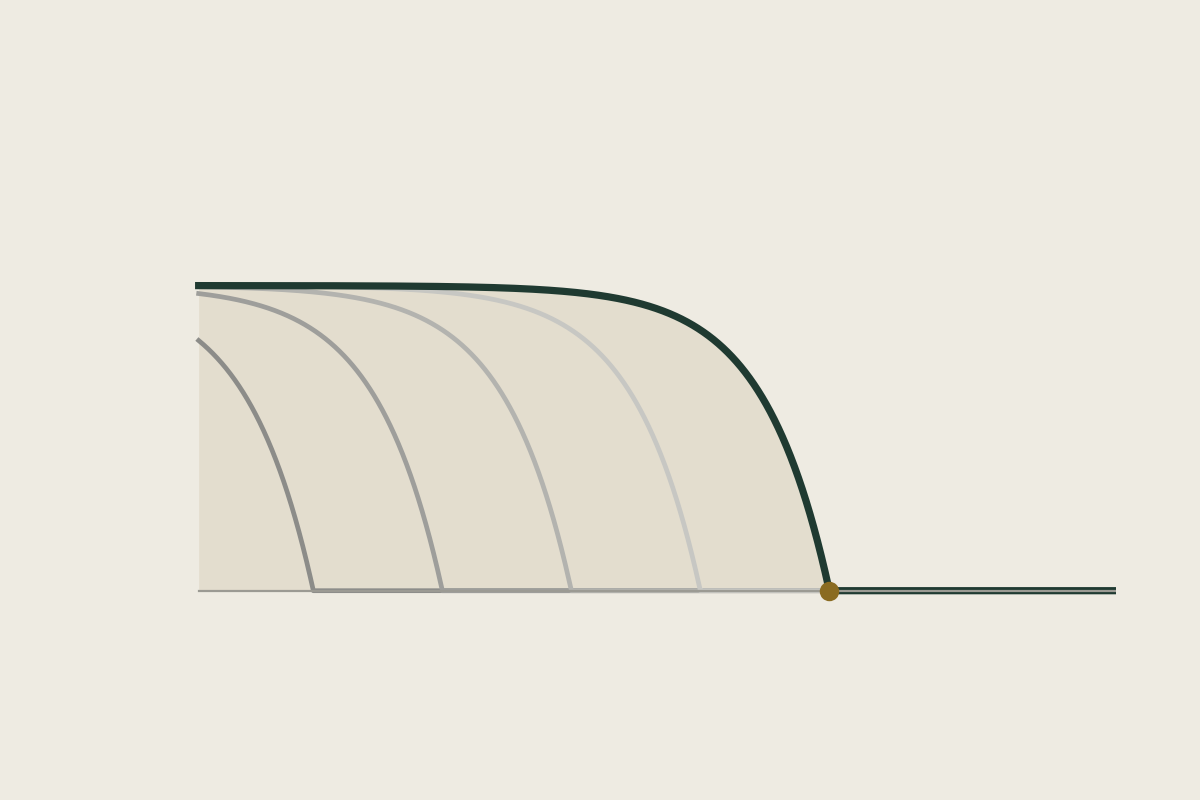
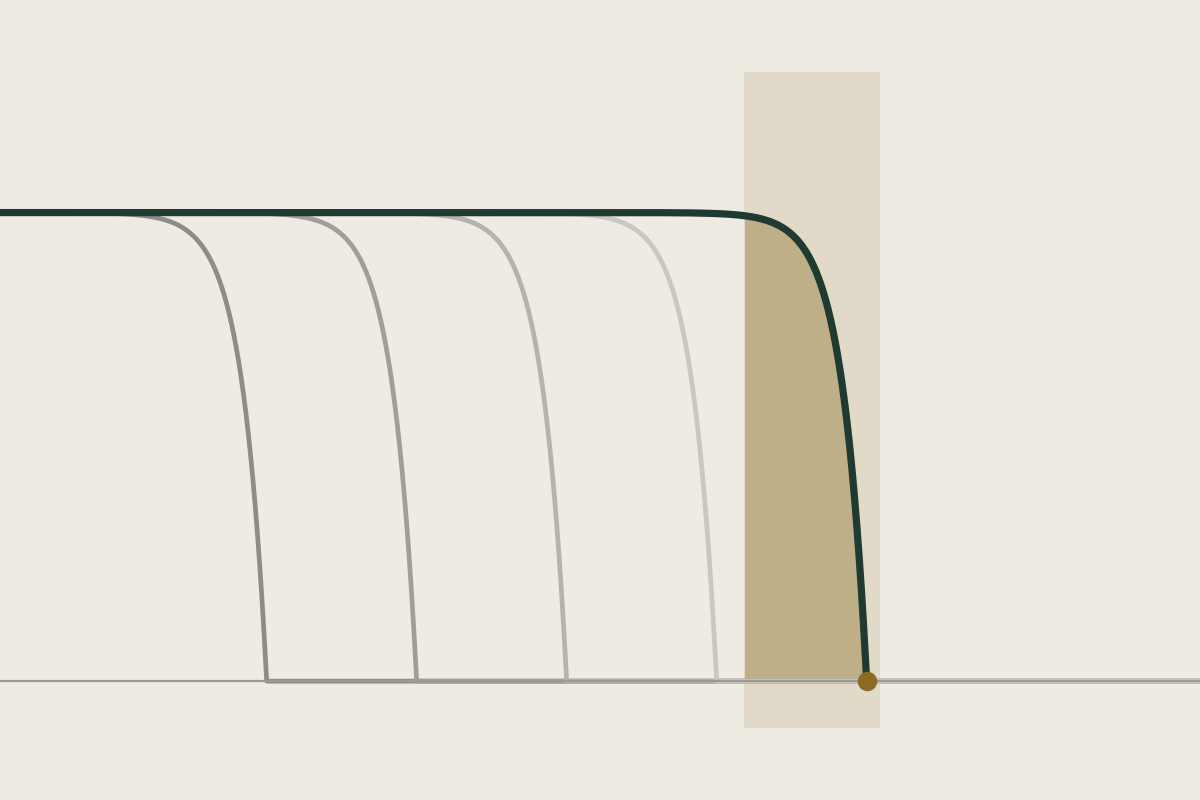
Teaching: steeper front with highlighted boundary layer; bump image cache tag

diff --git a/teaching.html b/teaching.html
@@ -1,1 +1,1 @@
-<!doctype html><html lang="en"><head><meta charset="utf-8"><meta name="viewport" content="width=device-width, initial-scale=1"><meta name="description" content="Zack Kilpatrick studies the mathematics of decisions, collective behavior, and memory at the University of Colorado Boulder."><meta name="theme-color" content="#1f3a31"><title>Teaching | Zack Kilpatrick</title><link rel="icon" href="assets/mark.svg" type="image/svg+xml"><link rel="stylesheet" href="assets/site.css?v=55"><script defer src="assets/site.js?v=23"></script></head><body class="academic"><a class="skip" href="#main">Skip to content</a><header class="site-header"><a class="brand" href="index.html"><span>Zack Kilpatrick<small>APPLIED MATHEMATICS · UNIVERSITY OF COLORADO BOULDER</small></span></a><button class="menu-button" aria-expanded="false" aria-controls="navigation">Menu</button><nav id="navigation" aria-label="Main navigation"><a href="research.html">Research</a><a href="publications.html">Publications</a><a href="group.html">Group</a><a href="teaching.html" aria-current="page">Teaching</a><a href="demos.html">Demos</a><a href="consulting.html">Consulting</a></nav></header><main id="main"><section class="page-intro wrap"><h1>Teaching</h1><p class="lede">Courses in applied mathematics, computational neuroscience, and mathematical biology. Most courses end with a project on a current research question.</p></section><section class="wrap course-grid"><article class="course"><img class="course-thumb" src="images/teaching/compneuro.png?v=2" alt="" loading="lazy" width="1200" height="800"><p class="eyebrow">APPM 4370 / 5370</p><h2>Computational Neuroscience</h2><p class="course-term">Fall 2026; previously 2024, 2023, 2021, 2020</p><p>Introduces mathematical and computational models of neurons, neural networks, and cognition. Topics include single-neuron dynamics, synaptic plasticity, recurrent network models, and attractor dynamics, with numerical simulation throughout and a final research project. I developed this course and have taught it at CU Boulder since 2020.</p></article><article class="course"><img class="course-thumb" src="images/teaching/markov.png?v=2" alt="" loading="lazy" width="1200" height="800"><p class="eyebrow">APPM 4560 / 5560</p><h2>Markov Processes</h2><p class="course-term">Fall 2026, 2025</p><p>Studies stochastic processes with the Markov property. Topics include discrete- and continuous-time Markov chains, Poisson processes, stationary distributions, and long-run behavior, with applications to models of random systems.</p></article><article class="course"><img class="course-thumb" src="images/teaching/mathbio.png?v=2" alt="" loading="lazy" width="1200" height="800"><p class="eyebrow">APPM 4390 / 5390</p><h2>Mathematical Biology</h2><p class="course-term">Spring 2026</p><p>Introduces mathematical modeling of biological systems. Topics include population dynamics, interacting species, feedback and regulation, and spatial effects, using both analytical and computational methods.</p></article><article class="course"><img class="course-thumb" src="images/teaching/pde.png?v=2" alt="" loading="lazy" width="1200" height="800"><p class="eyebrow">APPM 5470</p><h2>Partial Differential & Integral Equations</h2><p class="course-term">2024, 2020, 2019, 2018</p><p>Covers the theory and solution of partial and integral equations. Topics include classification of equations, analytical solution techniques, and properties of solutions.</p></article><article class="course"><img class="course-thumb" src="images/teaching/nonlinear.png?v=2" alt="" loading="lazy" width="1200" height="800"><p class="eyebrow">APPM 3010</p><h2>Nonlinear Dynamics & Chaos</h2><p class="course-term">Fall 2021</p><p>Introduces the analysis of nonlinear dynamical systems. Topics include stability, bifurcations, limit cycles, and chaos.</p></article><article class="course"><img class="course-thumb" src="images/teaching/approx.png?v=2" alt="" loading="lazy" width="1200" height="800"><p class="eyebrow">APPM 5480</p><h2>Approximation Methods</h2><p class="course-term">Spring 2021</p><p>Covers asymptotic and perturbation methods for problems that cannot be solved exactly. Topics include dominant balance, regular and singular perturbation theory, and reduced descriptions of complex systems.</p></article></section><section class="wrap teaching-note"><h2>Also taught at CU Boulder</h2><dl class="alumni"><div><dt>APPM 3570 <span>Applied Probability</span></dt><dd>Spring 2018, 2017</dd></div><div><dt>APPM 2360 <span>Differential Equations with Linear Algebra</span></dt><dd>Spring 2019</dd></div><div><dt>APPM 4350 <span>Fourier Series &amp; Boundary Value Problems</span></dt><dd>Fall 2016</dd></div></dl></section><section class="wrap teaching-note"><div class="intro-row"><div class="intro-head"><h2>Seminars and the graduate program</h2></div><div><p>I organize <strong>APPM 8400: Mathematical Biology Seminar</strong>, which brings visiting speakers and CU researchers together around mathematical modeling in the life sciences.</p><p>I helped redesign <strong>APPM 7400: Introduction to Research</strong>, and introduced <strong>APPM 7400: Graduate Research Seminar</strong>, so that journal club and student research presentations are part of the first and second years of the PhD program.</p></div></div></section></main><footer><div><a class="footer-name" href="index.html">Zack Kilpatrick</a><p>Professor of Applied Mathematics<br>University of Colorado Boulder</p></div><div><a href="mailto:zpkilpat@colorado.edu">zpkilpat@colorado.edu</a><p><a href="zpk_cv.pdf">CV (PDF)</a> · <a href="https://scholar.google.com/citations?user=w-RYt7kAAAAJ">Google Scholar</a> · <a href="https://github.com/zpkilpat">GitHub</a> · <a href="https://www.linkedin.com/in/zachary-kilpatrick-5b7339397/">LinkedIn</a></p></div><small>© 2026 Zack Kilpatrick</small></footer></body></html>
+<!doctype html><html lang="en"><head><meta charset="utf-8"><meta name="viewport" content="width=device-width, initial-scale=1"><meta name="description" content="Zack Kilpatrick studies the mathematics of decisions, collective behavior, and memory at the University of Colorado Boulder."><meta name="theme-color" content="#1f3a31"><title>Teaching | Zack Kilpatrick</title><link rel="icon" href="assets/mark.svg" type="image/svg+xml"><link rel="stylesheet" href="assets/site.css?v=55"><script defer src="assets/site.js?v=23"></script></head><body class="academic"><a class="skip" href="#main">Skip to content</a><header class="site-header"><a class="brand" href="index.html"><span>Zack Kilpatrick<small>APPLIED MATHEMATICS · UNIVERSITY OF COLORADO BOULDER</small></span></a><button class="menu-button" aria-expanded="false" aria-controls="navigation">Menu</button><nav id="navigation" aria-label="Main navigation"><a href="research.html">Research</a><a href="publications.html">Publications</a><a href="group.html">Group</a><a href="teaching.html" aria-current="page">Teaching</a><a href="demos.html">Demos</a><a href="consulting.html">Consulting</a></nav></header><main id="main"><section class="page-intro wrap"><h1>Teaching</h1><p class="lede">Courses in applied mathematics, computational neuroscience, and mathematical biology. Most courses end with a project on a current research question.</p></section><section class="wrap course-grid"><article class="course"><img class="course-thumb" src="images/teaching/compneuro.png?v=3" alt="" loading="lazy" width="1200" height="800"><p class="eyebrow">APPM 4370 / 5370</p><h2>Computational Neuroscience</h2><p class="course-term">Fall 2026; previously 2024, 2023, 2021, 2020</p><p>Introduces mathematical and computational models of neurons, neural networks, and cognition. Topics include single-neuron dynamics, synaptic plasticity, recurrent network models, and attractor dynamics, with numerical simulation throughout and a final research project. I developed this course and have taught it at CU Boulder since 2020.</p></article><article class="course"><img class="course-thumb" src="images/teaching/markov.png?v=3" alt="" loading="lazy" width="1200" height="800"><p class="eyebrow">APPM 4560 / 5560</p><h2>Markov Processes</h2><p class="course-term">Fall 2026, 2025</p><p>Studies stochastic processes with the Markov property. Topics include discrete- and continuous-time Markov chains, Poisson processes, stationary distributions, and long-run behavior, with applications to models of random systems.</p></article><article class="course"><img class="course-thumb" src="images/teaching/mathbio.png?v=3" alt="" loading="lazy" width="1200" height="800"><p class="eyebrow">APPM 4390 / 5390</p><h2>Mathematical Biology</h2><p class="course-term">Spring 2026</p><p>Introduces mathematical modeling of biological systems. Topics include population dynamics, interacting species, feedback and regulation, and spatial effects, using both analytical and computational methods.</p></article><article class="course"><img class="course-thumb" src="images/teaching/pde.png?v=3" alt="" loading="lazy" width="1200" height="800"><p class="eyebrow">APPM 5470</p><h2>Partial Differential & Integral Equations</h2><p class="course-term">2024, 2020, 2019, 2018</p><p>Covers the theory and solution of partial and integral equations. Topics include classification of equations, analytical solution techniques, and properties of solutions.</p></article><article class="course"><img class="course-thumb" src="images/teaching/nonlinear.png?v=3" alt="" loading="lazy" width="1200" height="800"><p class="eyebrow">APPM 3010</p><h2>Nonlinear Dynamics & Chaos</h2><p class="course-term">Fall 2021</p><p>Introduces the analysis of nonlinear dynamical systems. Topics include stability, bifurcations, limit cycles, and chaos.</p></article><article class="course"><img class="course-thumb" src="images/teaching/approx.png?v=3" alt="" loading="lazy" width="1200" height="800"><p class="eyebrow">APPM 5480</p><h2>Approximation Methods</h2><p class="course-term">Spring 2021</p><p>Covers asymptotic and perturbation methods for problems that cannot be solved exactly. Topics include dominant balance, regular and singular perturbation theory, and reduced descriptions of complex systems.</p></article></section><section class="wrap teaching-note"><h2>Also taught at CU Boulder</h2><dl class="alumni"><div><dt>APPM 3570 <span>Applied Probability</span></dt><dd>Spring 2018, 2017</dd></div><div><dt>APPM 2360 <span>Differential Equations with Linear Algebra</span></dt><dd>Spring 2019</dd></div><div><dt>APPM 4350 <span>Fourier Series &amp; Boundary Value Problems</span></dt><dd>Fall 2016</dd></div></dl></section><section class="wrap teaching-note"><div class="intro-row"><div class="intro-head"><h2>Seminars and the graduate program</h2></div><div><p>I organize <strong>APPM 8400: Mathematical Biology Seminar</strong>, which brings visiting speakers and CU researchers together around mathematical modeling in the life sciences.</p><p>I helped redesign <strong>APPM 7400: Introduction to Research</strong>, and introduced <strong>APPM 7400: Graduate Research Seminar</strong>, so that journal club and student research presentations are part of the first and second years of the PhD program.</p></div></div></section></main><footer><div><a class="footer-name" href="index.html">Zack Kilpatrick</a><p>Professor of Applied Mathematics<br>University of Colorado Boulder</p></div><div><a href="mailto:zpkilpat@colorado.edu">zpkilpat@colorado.edu</a><p><a href="zpk_cv.pdf">CV (PDF)</a> · <a href="https://scholar.google.com/citations?user=w-RYt7kAAAAJ">Google Scholar</a> · <a href="https://github.com/zpkilpat">GitHub</a> · <a href="https://www.linkedin.com/in/zachary-kilpatrick-5b7339397/">LinkedIn</a></p></div><small>© 2026 Zack Kilpatrick</small></footer></body></html>
